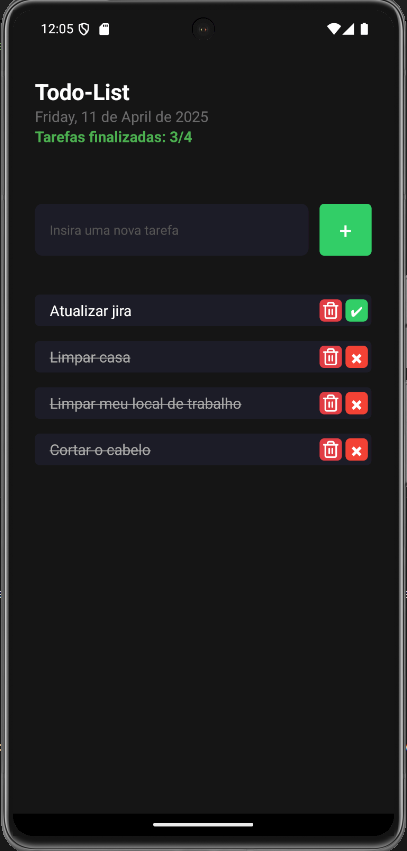
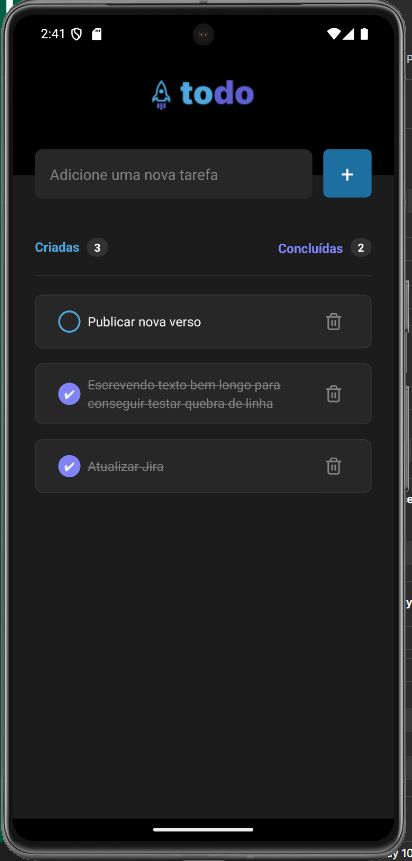
Nova versão conforme FIGMA da rocketseat

diff --git a/src/screens/home/styles.ts b/src/screens/home/styles.ts
@@ -3,56 +3,118 @@ import { StyleSheet } from 'react-native';
 export const styles = StyleSheet.create({
   container: {
     flex: 1,
-    backgroundColor: '#131016',
-    padding: 24,
+    backgroundColor: "#1A1A1A",
+    alignItems: "center",
+    justifyContent: "flex-start",
+    fontFamily: "Inter",
   },
-  eventName: {
-    color: '#fff',
-    fontSize: 24,
-    fontWeight: 'bold',
-    marginTop: 48,
+  logoContainer: {
+    backgroundColor: "#000",
+    width: "100%",
+    alignItems: "center",
+    justifyContent: "center",
+    height: 173,
   },
-  eventDate: {
-    color:'#6B6B6B',
-    fontSize: 16,
+  logo: {
+    width: 110,
+    height: 32,
+    resizeMode: "contain",
   },
-  completedTasksText: {
-    fontSize: 16,
-    color: "#4caf50", // Verde para destacar
-    marginBottom: 10,
-    fontWeight: "bold",
+  form: {
+    flexDirection: 'row',
+    width: '100%',
+    paddingHorizontal: 24,
+    marginTop: -28,
+    marginBottom: 42,
   },
   input: {
-    backgroundColor: '#1E1B26',
+    backgroundColor: '#262626',
     color: '#fff',
     borderRadius: 8,
-    marginTop: 16,
     padding: 16,
     flex: 1,
     marginRight: 12,
+    fontSize: 16,
+  },
+  button: {
+    backgroundColor: '#1E6F9F',
+    height: 52,
+    width: 52,
+    alignItems: 'center',
+    justifyContent: 'center',
+    borderRadius: 6,
   },
   buttonText: {
     fontSize: 24,
     color: '#fff',
   },
-  button: {
-    backgroundColor: '#31CF67',
-    height: 56,
-    width: 56,
-    alignItems: 'center',
-    justifyContent: 'center',
-    marginTop: 16,
-    borderRadius: 5,
-  },
-  form: {
-    flexDirection: 'row',
+  countersContainer: {
+    flexDirection: "row",
     width: '100%',
-    marginTop: 36,
-    marginBottom: 42,
+    justifyContent: "space-between",
+    paddingHorizontal: 24,
+    marginBottom: 20,
+  },
+  counterCreated: {
+    flexDirection: "row",
+    alignItems: "flex-start",
+  },
+  counterConcluded: {
+    flexDirection: "row",
+    alignItems: "flex-end",
+  },
+  counterLabelCreated: {
+    color: "#4EA8DE",
+    fontSize: 14,
+    fontWeight: "bold",
+    marginRight: 8,
+  },
+  counterLabelConcluded: {
+    color: "#8284FA",
+    fontSize: 14,
+    fontWeight: "bold",
+    marginRight: 8,
+  },
+  counterValue: {
+    backgroundColor: "#333333",
+    borderRadius: 12,
+    paddingHorizontal: 8,
+    paddingVertical: 2,
+  },
+  counterText: {
+    color: "#FFF",
+    fontSize: 12,
+    fontWeight: "bold",
+  },
+  lineContainer: {
+    width: '100%',
+    paddingHorizontal: 24,
+  },
+  line: {
+    width: '100%',
+    height: 1,
+    backgroundColor: '#333333',
+    marginBottom: 20,
+  },
+  emptyListContainer: {
+    alignItems: "center",
+    marginTop: 48,
+  },
+  emptyListIcon: {
+    width: 56,
+    height: 56,
+    marginBottom: 16,
   },
   emptyListText: {
-    color: '#fff',
-    fontSize: 16,
+    color: '#808080',
+    fontSize: 14,
+    textAlign: 'center',
+    marginTop: 16,
+    fontWeight: "bold",
+  },
+  emptyListSubText: {
+    color: '#808080',
+    fontSize: 12,
     textAlign: 'center',
   },
 });

diff --git a/src/screens/home/index.tsx b/src/screens/home/index.tsx
@@ -1,9 +1,9 @@
 import { Text, View, TextInput, TouchableOpacity, FlatList, Alert } from "react-native";
 import { styles } from "./styles";
 import { Task } from "../../components/task";
-import dayjs from "dayjs";
 import { useState } from "react";
 import { TaskProps } from "../../model/task.interface";
+import { Image } from "react-native";
 
 export function Home() {
 
@@ -78,19 +78,16 @@ export function Home() {
 
   return (
     <View style={styles.container}>
-      <Text style={styles.eventName}>
-        Todo-List
-      </Text>
-      <Text style={styles.eventDate}>
-        {dayjs().format('dddd, DD [de] MMMM [de] YYYY')}
-      </Text>
-      <Text style={styles.completedTasksText}>
-        Tarefas finalizadas: {taskCount}/{tasks.length}
-      </Text>
+      <View style={styles.logoContainer}>
+        <Image 
+          source={require("../../../assets/Logo.png")} 
+          style={styles.logo} 
+        />
+      </View>
       <View style={styles.form}>
         <TextInput
-          placeholder="Insira uma nova tarefa"
-          placeholderTextColor="#555"
+          placeholder="Adicione uma nova tarefa"
+          placeholderTextColor="#808080"
           style={styles.input}
           onChangeText={setNewTask}
           value={newTask}
@@ -100,6 +97,25 @@ export function Home() {
             +
           </Text>
         </TouchableOpacity>
+      </View>
+      <View style={styles.countersContainer}>
+        <View style={styles.counterCreated}>
+          <Text style={styles.counterLabelCreated}>Criadas</Text>
+          <View style={styles.counterValue}>
+            <Text style={styles.counterText}>{tasks.length}</Text>
+          </View>
+        </View>
+        <View style={styles.counterConcluded}>
+          <Text style={styles.counterLabelConcluded}>Concluídas</Text>
+          <View style={styles.counterValue}>
+            <Text style={styles.counterText}>
+              {tasks.filter(task => task.done).length}
+            </Text>
+          </View>
+        </View>
+      </View>
+      <View style={styles.lineContainer}>
+        <View style={styles.line} />
       </View>
       <FlatList
         data={tasks}
@@ -113,9 +129,18 @@ export function Home() {
         )}
         showsVerticalScrollIndicator={false}
         ListEmptyComponent={() => (
-          <Text style={styles.emptyListText}>
-            Nenhuma tarefa cadastrada
-          </Text>
+          <View style={styles.emptyListContainer}>
+            <Image 
+              source={require("../../../assets/Clipboard.png")}
+              style={styles.emptyListIcon} 
+            />
+            <Text style={styles.emptyListText}>
+              Você ainda não tem tarefas cadastradas
+            </Text>
+            <Text style={styles.emptyListSubText}>
+              Crie tarefas e organize seus itens a fazer
+            </Text>
+          </View>
         )}
       />
     </View>

diff --git a/src/components/task/styles.ts b/src/components/task/styles.ts
@@ -2,56 +2,71 @@ import {StyleSheet} from 'react-native';
 
 export const styles = StyleSheet.create({
     container: {
-        backgroundColor: '#1F1E25',
-        borderRadius: 5,
-        marginBottom: 16,
-        width: '100%',
-        flexDirection: 'row',
-        alignItems: 'center',
+        width: "100%",
+        flexDirection: "row",
+        alignItems: "center",
+        justifyContent: "space-between",
+        backgroundColor: "#1A1A1A",
+        marginBottom: 8,
+        paddingHorizontal: 24,
+        fontFamily: "Inter",
+    },
+    containerInput: {
+        width: "100%",
+        flexDirection: "row",
+        alignItems: "center",
+        justifyContent: "space-between",
+        backgroundColor: "#262626",
+        padding: 12,
+        marginBottom: 8,
+        borderRadius: 8,
+        borderWidth: 1,
+        borderColor: "#333333",
+        paddingHorizontal: 24,
     },
     taskText: {
-        color: '#fff',
-        fontSize: 16,
+        color: "#F2F2F2",
+        fontSize: 14,
+        lineHeight: 20,
+        marginLeft: 8,
         flex: 1,
-        marginLeft: 16,
+        overflow: "hidden",
     },
     completedTaskText: {
-        textDecorationLine: 'line-through',
-        color: '#aaa',
+        textDecorationLine: "line-through",
+        color: "#808080",
     },
     buttonTextRemove: {
         fontSize: 24,
         color: '#fff',
     },
-    buttonTextCheck: {
-        fontSize: 14,
-        color: '#fff',
-    },
     buttonRemove: {
-        backgroundColor: '#E23C44',
-        height: 24,
-        width: 24,
-        alignItems: 'center',
-        justifyContent: 'center',
-        marginTop: 5,
-        marginBottom: 5,
-        marginRight: 4,
-        borderRadius: 5,
+        width: 32,
+        height: 32,
+        alignItems: "center",
+        justifyContent: "center",
+        borderRadius: 4,
+        marginLeft: 8,
     },
     buttonCheck: {
-        height: 24,
         width: 24,
-        alignItems: 'center',
-        justifyContent: 'center',
-        marginTop: 5,
-        marginBottom: 5,
-        marginRight: 4,
-        borderRadius: 5,
+        height: 24,
+        alignItems: "center",
+        justifyContent: "center",
+        borderRadius: 12,
+        borderWidth: 2,
     },
     buttonCheckDone: {
-        backgroundColor: "#31CF67", // Verde para "uncheck"
+        borderColor: "#8284FA",
+        backgroundColor: "#8284FA",
     },
     buttonCheckUndone: {
-        backgroundColor: "#f44336", // Vermelho para "check"
+        borderColor: "#4EA8DE",
+        backgroundColor: "transparent",
+    },
+    buttonTextCheck: {
+        color: "#F2F2F2",
+        fontSize: 12,
+        fontWeight: "bold",
     },
 }); 

diff --git a/src/components/task/index.tsx b/src/components/task/index.tsx
@@ -1,7 +1,7 @@
 import { View, Text, TouchableOpacity } from "react-native";
 import { styles } from "./styles";
 import React from "react";
-import { Feather } from "@expo/vector-icons"; // Import do ícone
+import { Feather } from "@expo/vector-icons";
 
 
 type Props = {
@@ -14,23 +14,28 @@ type Props = {
 export function Task(props: Props) {
     return (
         <View style={styles.container}>
-            <Text style={[styles.taskText, props.done && styles.completedTaskText]}>
-                {props.name}
-            </Text>
-            <TouchableOpacity style={styles.buttonRemove} onPress={props.onRemove}>
-                <Feather name="trash-2" size={20} color="#fff" />
-            </TouchableOpacity>
+            <View style={styles.containerInput}>
             <TouchableOpacity 
                 style={[
                     styles.buttonCheck, 
-                    !props.done ? styles.buttonCheckDone : styles.buttonCheckUndone
+                    props.done ? styles.buttonCheckDone : styles.buttonCheckUndone
                 ]} 
                 onPress={props.onCheck}
             >
                 <Text style={styles.buttonTextCheck}>
-                {props.done ? "✖" : "✔"}
+                    {props.done ? "✔" : ""}
                 </Text>
             </TouchableOpacity>
-        </View>                
+            <Text 
+                style={[styles.taskText, props.done && styles.completedTaskText]}
+                ellipsizeMode="tail"
+            >
+                {props.name}
+            </Text>
+            <TouchableOpacity style={styles.buttonRemove} onPress={props.onRemove}>
+                <Feather name="trash-2" size={20} color="#808080" />
+            </TouchableOpacity>
+            </View>     
+        </View>
     )
 }
